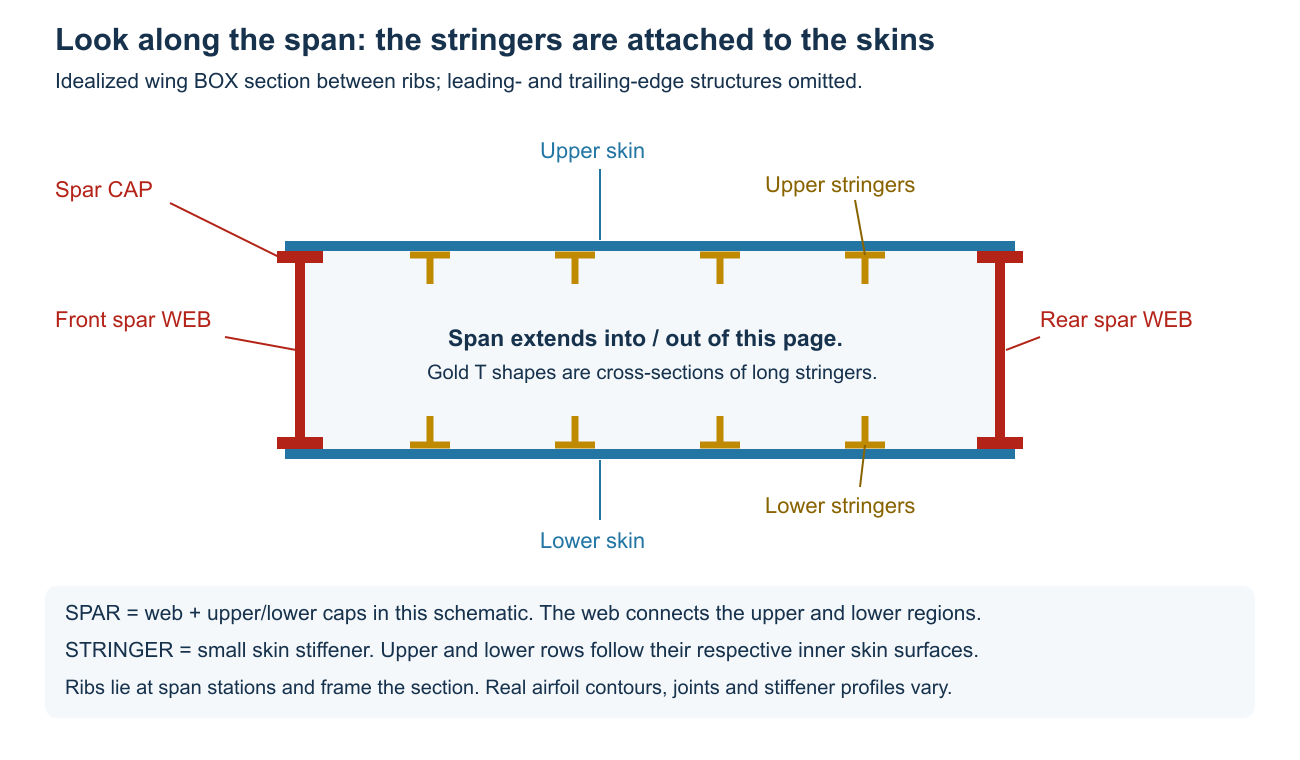
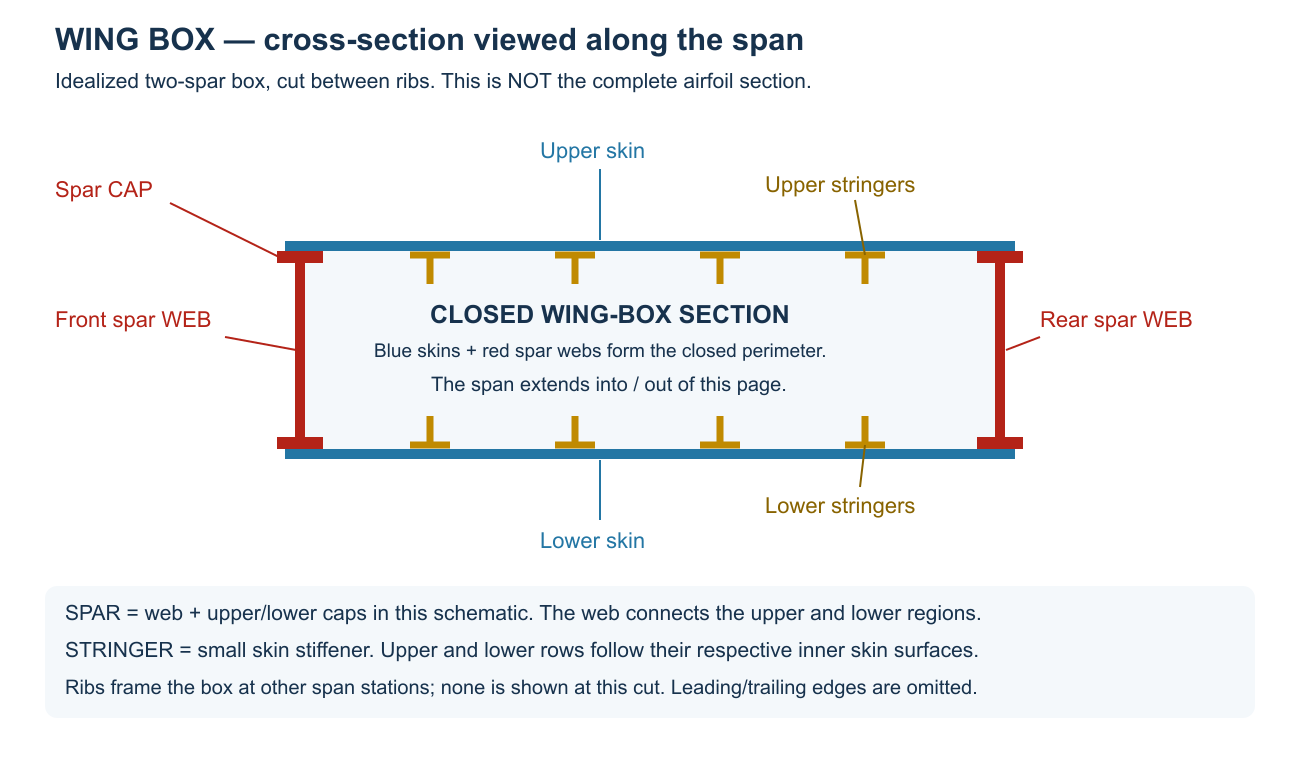
Explicitly identify the wing-box section and its closed perimeter

diff --git a/scripts/add_wing_identification_views.py b/scripts/add_wing_identification_views.py
@@ -19,11 +19,17 @@ The figure is a cutaway, not a fabrication drawing: the end of a colored patch d
 
 Use the original labels in this NASA drawing to distinguish the major spanwise members from the chordwise frames. The layout is an example, not a prescription for every aircraft. [NASA artwork and public-domain attribution record](https://commons.wikimedia.org/wiki/File:Wing_structures.svg).
 
-#### Where are the upper and lower stringers?
+#### This is a wing box: cross-section viewed along the span
 
 <p align="center"><img src="https://raw.githubusercontent.com/Ehsan-Roohi/Aerospace-Structures/main/docs/assets/lecture01/Wing_Box_Section.png" alt="Cross-section of a wing box with stringers attached to both upper and lower skin; spar webs and caps shown separately" width="1200"></p>
 
-This original schematic shows a cut **normal to the span**, between ribs. Each small gold T is the end view of a long stringer. Stringers run generally spanwise, approximately alongside the spars, while staying attached to the inner upper or lower skin; they are not free rods suspended in the cavity. Exact alignment and cross-section depend on the design. A spar has a much deeper web and associated caps; a stringer reinforces a local strip of skin. The closed wing box is formed by upper/lower skin and front/rear spar webs. Rib stations support and preserve its section shape.
+**Yes: this is an idealized cross-section of a two-spar wing box, not the entire wing or airfoil.** The **upper skin, lower skin, front spar web and rear spar web** form the closed structural perimeter. The spar caps and the skin-mounted stringers reinforce it; the gold T shapes alone do not make a wing box.
+
+This original schematic shows a cut **normal to the span**, between ribs. **No rib is shown in this cut**: ribs frame the box at other spanwise stations. Leading- and trailing-edge structures lie outside this simplified box and are omitted. Real wing boxes usually follow curved/tapered wing geometry rather than this exact rectangle.
+
+**Why a closed box?** The connected skins and webs provide a closed path for torsional shear flow; skins, caps and stringers also share bending-related axial loads. This is a conventional structural concept, not a drawing or validation of our printed two-rod demonstrator.
+
+ Each small gold T is the end view of a long stringer. Stringers run generally spanwise, approximately alongside the spars, while staying attached to the inner upper or lower skin; they are not free rods suspended in the cavity. Exact alignment and cross-section depend on the design. A spar has a much deeper web and associated caps; a stringer reinforces a local strip of skin. The closed wing box is formed by upper/lower skin and front/rear spar webs. Rib stations support and preserve its section shape.
 
 #### Photograph of a physical model: spars versus ribs
 

diff --git a/scripts/label_wing_box_section.py b/scripts/label_wing_box_section.py
@@ -1,0 +1,30 @@
+"""Clarify the wing-box caption without rebuilding the surrounding lesson."""
+import json
+from pathlib import Path
+
+ROOT = Path(__file__).resolve().parents[1]
+heading = "#### Where are the upper and lower stringers?"
+new_heading = "#### This is a wing box: cross-section viewed along the span"
+old = "This original schematic shows a cut **normal to the span**, between ribs."
+new = """**Yes: this is an idealized cross-section of a two-spar wing box, not the entire wing or airfoil.** The **upper skin, lower skin, front spar web and rear spar web** form the closed structural perimeter. The spar caps and the skin-mounted stringers reinforce it; the gold T shapes alone do not make a wing box.
+
+This original schematic shows a cut **normal to the span**, between ribs. **No rib is shown in this cut**: ribs frame the box at other spanwise stations. Leading- and trailing-edge structures lie outside this simplified box and are omitted. Real wing boxes usually follow curved/tapered wing geometry rather than this exact rectangle.
+
+**Why a closed box?** The connected skins and webs provide a closed path for torsional shear flow; skins, caps and stringers also share bending-related axial loads. This is a conventional structural concept, not a drawing or validation of our printed two-rod demonstrator.
+
+"""
+path = ROOT / "notebooks/MIE446_Lecture_01_Trust_Forces_Airfoils.ipynb"
+nb = json.loads(path.read_text(encoding="utf-8"))
+for cell in nb["cells"]:
+    s = "".join(cell["source"])
+    if "Wing_Box_Section.png" in s and "**Yes: this is an idealized cross-section" not in s:
+        s = s.replace(heading, new_heading).replace(old, new)
+        cell["source"] = s.splitlines(keepends=True)
+path.write_text(json.dumps(nb, ensure_ascii=False, indent=1) + "\n", encoding="utf-8")
+
+# Preserve the same wording if the original identification-view builder is reused.
+builder = ROOT / "scripts/add_wing_identification_views.py"
+s = builder.read_text(encoding="utf-8")
+if "**Yes: this is an idealized cross-section" not in s:
+    s = s.replace(heading, new_heading).replace(old, new)
+    builder.write_text(s, encoding="utf-8")
